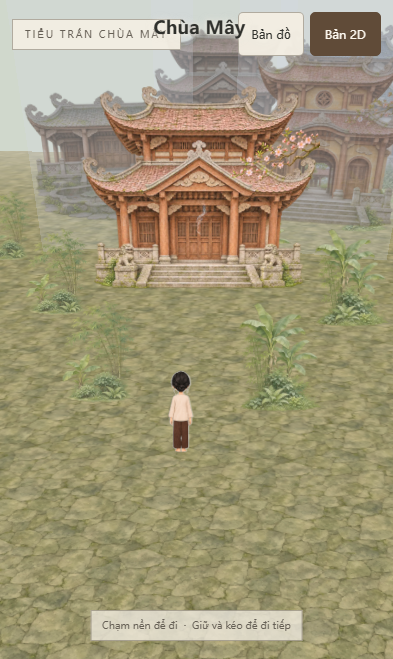
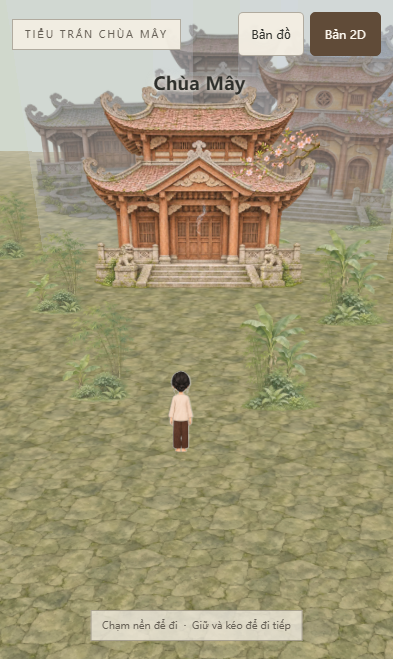
fix(town-3d): clamp label sy to 72px to clear header bar
Raise the label top-of-screen minimum from 16 to 72 so the
temple name never overlaps the "TIỂU TRẤN CHÙA MÂY / Bản đồ"
header when the billboard top is near the screen edge.

P0 complete.

Changed region(s): [[0.3969, 0.091, 0.6412, 0.1517], [0.3969, 0.0303, 0.6412, 0.0607]]

diff --git a/town-3d/app.js b/town-3d/app.js
@@ -116,7 +116,7 @@ function updateLabels() {
 
       // Place label just above the projected top; clamp x to avoid edge clipping
       const sx = Math.max(LHW + 12, Math.min(innerWidth - LHW - 12, rawSx));
-      const sy = Math.max(16, rawSy - 8);
+      const sy = Math.max(72, rawSy - 8);
       if (sy > innerHeight - 46) continue;
 
       const lRect = { left: sx - LHW, right: sx + LHW, top: sy - 4, bottom: sy + 42 };
